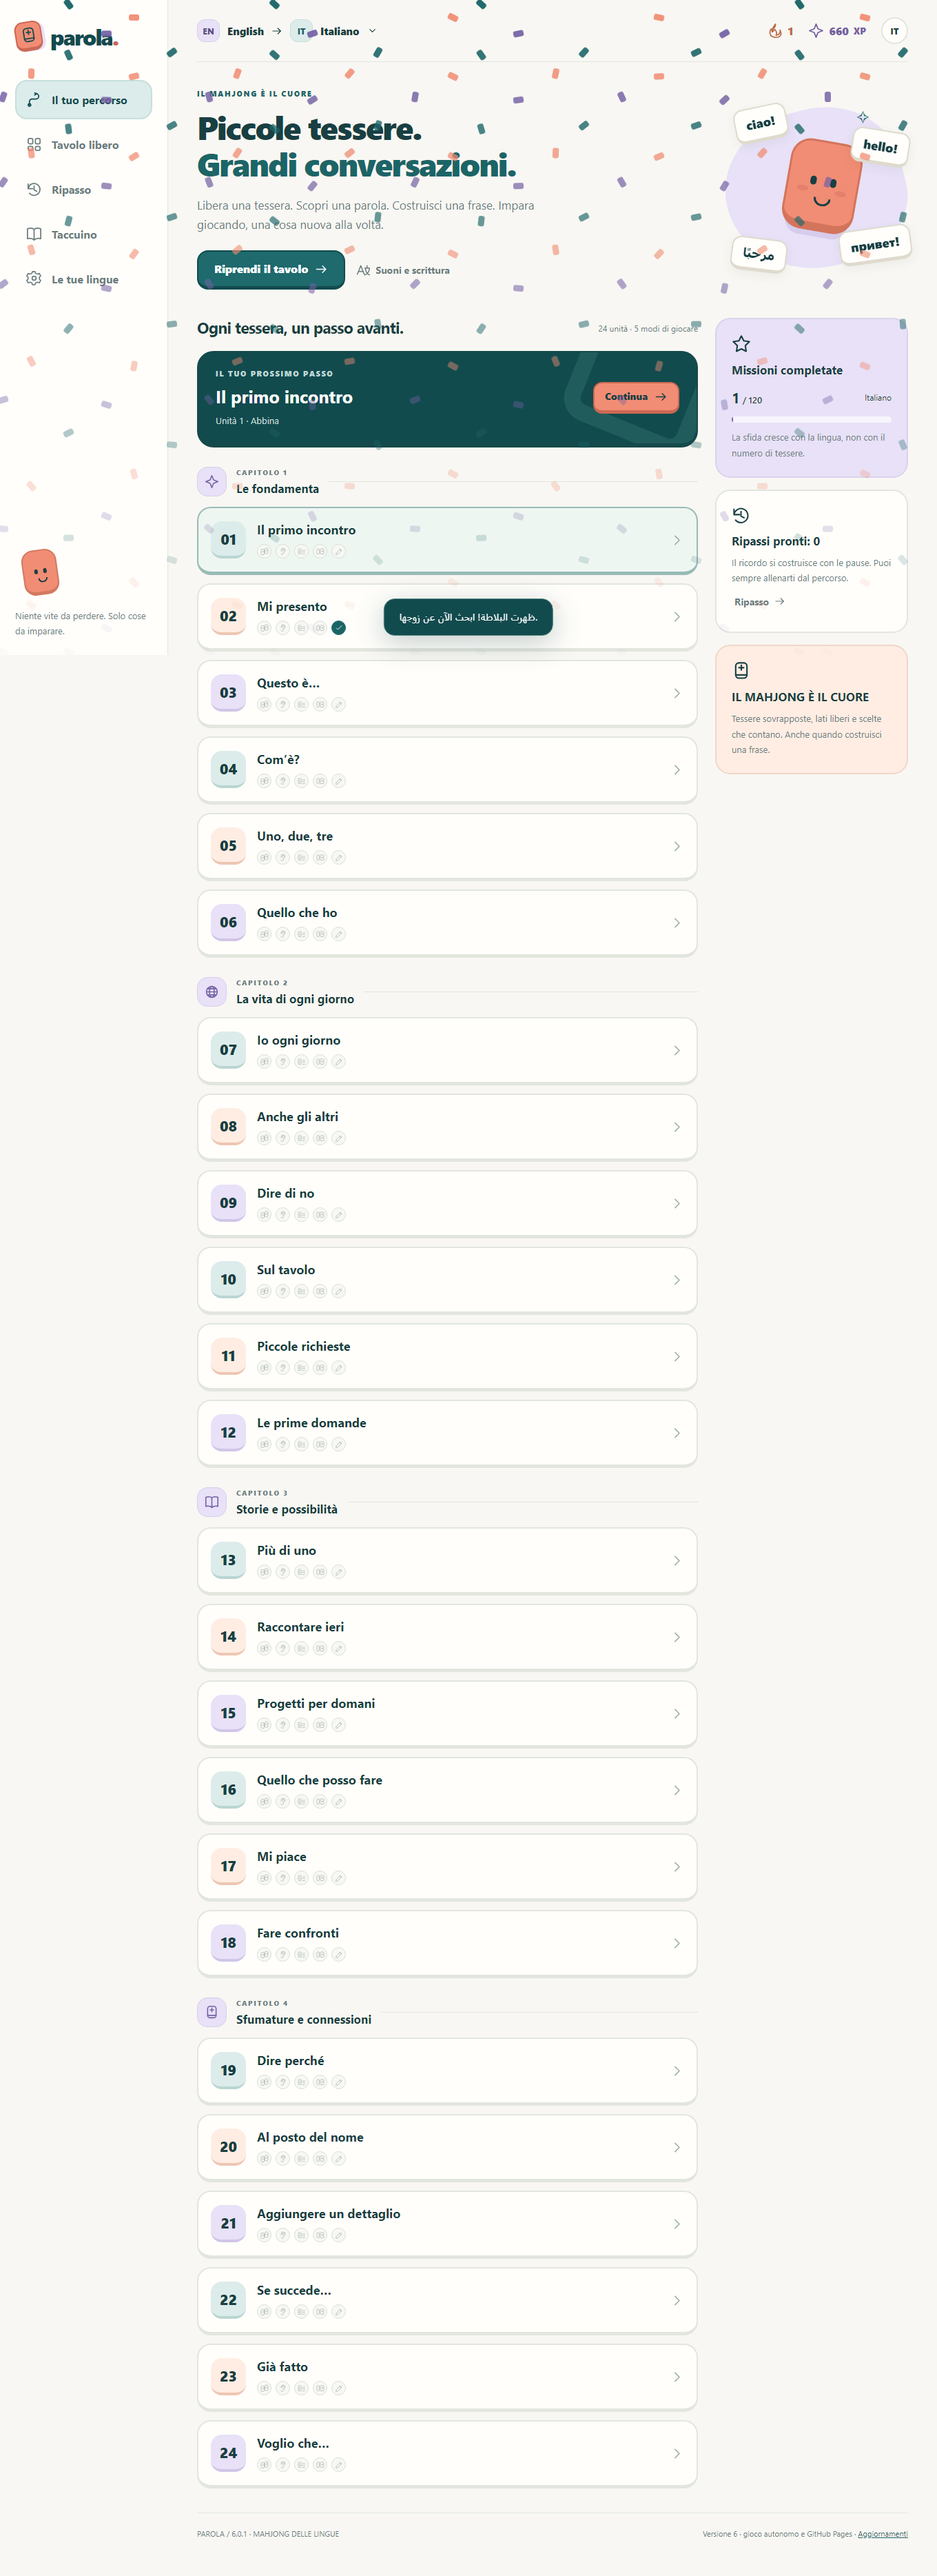
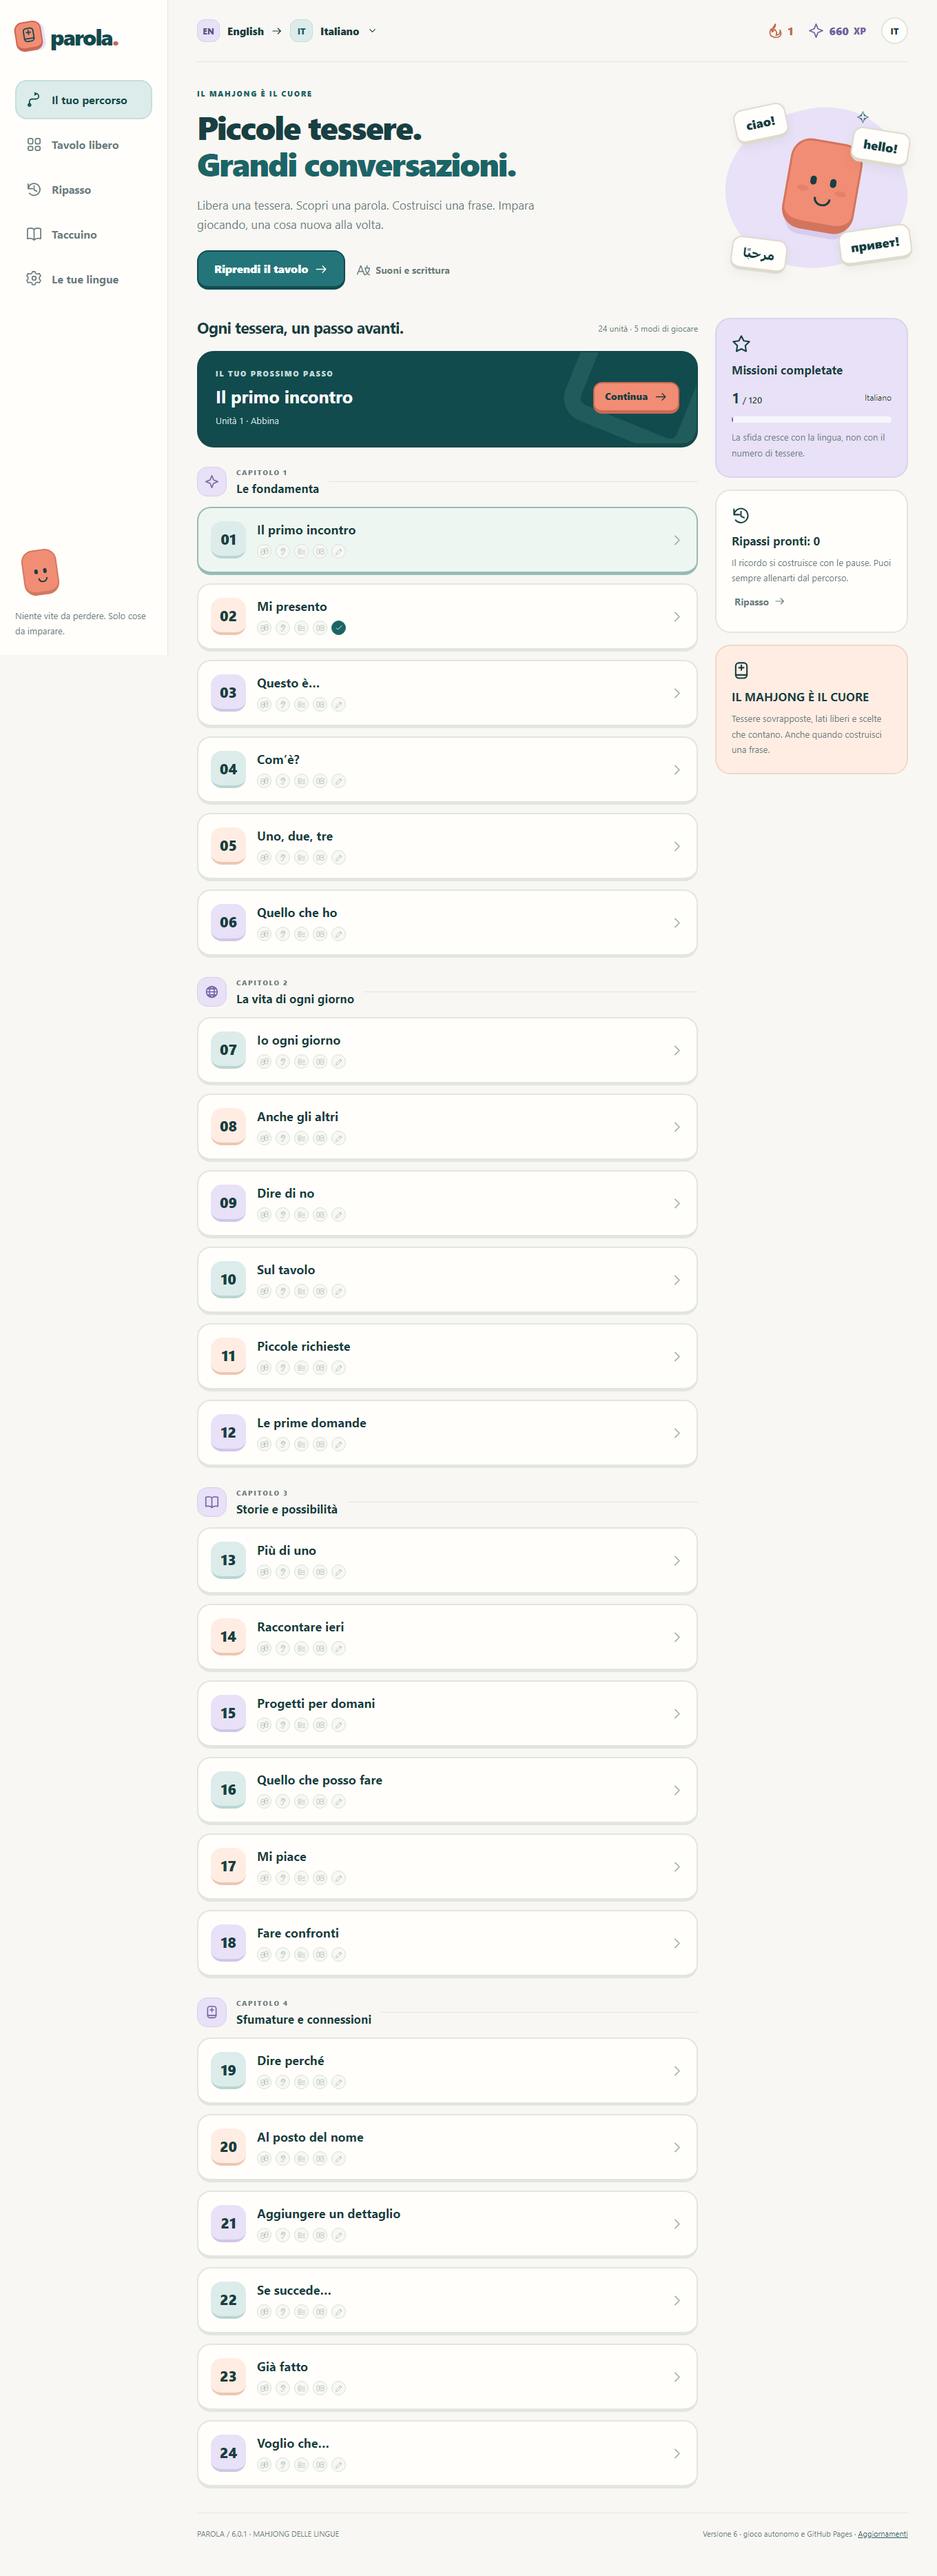
docs: conserva la verifica pubblica di Parola 6.0.1
Registra indirizzi del nuovo repository e del gioco, HTTPS e pubblicazione da master. Conserva report Playwright della verifica effettiva su GitHub Pages: 25 controlli superati, incluse 12 partite, audio IT/EN/RU, salvataggi reali, recupero backup, quattro lingue mobile e utilizzo offline del gioco e del changelog. Aggiorna le schermate senza animazioni per facilitarne la lettura, distingue i risultati attuali dai report storici e rigenera tutti i checksum. Integra origin/master prima del commit; nessun push forzato.

Changed region(s): [[0.4015, 0.2173, 0.5868, 0.2484]]

diff --git a/docs/PUBBLICAZIONE.md b/docs/PUBBLICAZIONE.md
@@ -1,0 +1,35 @@
+# Pubblicazione di Parola 6.0.1
+
+Data: 13 ottobre 2026.
+
+- Repository pubblico: https://github.com/florame-ai/parola-mahjong
+- Gioco: https://florame-ai.github.io/parola-mahjong/
+- Aggiornamenti: https://florame-ai.github.io/parola-mahjong/changelog.html
+- GitHub Pages: ramo master, cartella radice, HTTPS attivo.
+- Primo caricamento verificato: risposta HTTP 200 e metadati versione 6.0.1.
+
+## Verifiche eseguite in questa pubblicazione
+
+18 test Node superati, compresi motore, persistenza, migrazione e ripasso anticipato. Le simulazioni del motore hanno prodotto 4.320 scenari e 2.000 partite con scelte casuali valide senza stalli osservati.
+
+25 controlli Chromium superati prima sull'origine locale reale, poi sull'indirizzo pubblico GitHub Pages:
+
+- Avvio, numero versione, 24 unità e cinque modalità.
+- Riproduzione effettiva di MP3 in italiano, inglese e russo.
+- Persistenza della partita dopo ricarica con localStorage reale.
+- Recupero del salvataggio principale danneggiato dalla copia di backup.
+- 12 partite Scrivi e abbina completate, una per direzione linguistica.
+- Layout mobile nelle quattro lingue dell'interfaccia, con controllo RTL arabo e assenza di overflow orizzontale.
+- Ricarica del gioco e riproduzione MP3 con rete disattivata.
+- Apertura del changelog pubblico con rete disattivata.
+- Assenza di errori JavaScript e traduzioni mancanti durante la suite.
+
+Report: `local-pages-verification-6.0.1.json` e `pages-verification-6.0.1.json`. Schermate: `pages-desktop-6.0.1.png` e `pages-mobile-6.0.1.png`. Questi controlli verificano Chromium in questo ambiente; i report originali della versione 6.0.0 restano conservati come evidenza storica e non descrivono la verifica attuale.
+
+## Limiti mantenuti
+
+Gli MP3 arabi sono ancora assenti. Il gioco usa una voce araba del dispositivo, se disponibile. Non è stata eseguita una revisione madrelingua dei contenuti. Per spostare i progressi dal file locale al sito occorre esportarli e importarli dalle Impostazioni.
+
+## Conservazione e aggiornamenti
+
+Il commit iniziale conserva integralmente la versione 6.0.0 ricevuta. Un secondo commit prepara la release 6.0.1 e un terzo conserva la verifica pubblica. I push avvengono su master dopo aver recuperato e integrato gli aggiornamenti remoti, senza forzature. `CHECKSUMS.sha256` elenca i file attualmente conservati.

diff --git a/LEGGIMI.md b/LEGGIMI.md
@@ -60,6 +60,8 @@ python scripts/build.py --require-all-audio
 
 ## Verifiche originali della versione 6.0.0
 
+Per la pubblicazione 6.0.1 sono stati superati anche 25 controlli sul sito GitHub Pages reale, inclusi localStorage, copia di recupero, MP3 e ricarica offline. Il resoconto attuale è in `docs/PUBBLICAZIONE.md`; i risultati riportati sotto restano quelli storici della versione ricevuta.
+
 - **18 test Node superati**, inclusi grammatica degli abbinamenti, geometria, generazione delle sequenze, copie di recupero, migrazione e regressione del ripasso anticipato.
 - **6.320 tavoli simulati**: 4.320 tavoli negli scenari del motore e 2.000 simulazioni con scelte casuali di coppie valide; nessuno stallo osservato in questi scenari.
 - **163 controlli Chromium superati** in due suite di interfaccia: 71 nuovi controlli e 92 sui flussi preesistenti. Comprendono 12 partite complete Scrivi e abbina e 36 partite complete nelle altre modalità testuali.
